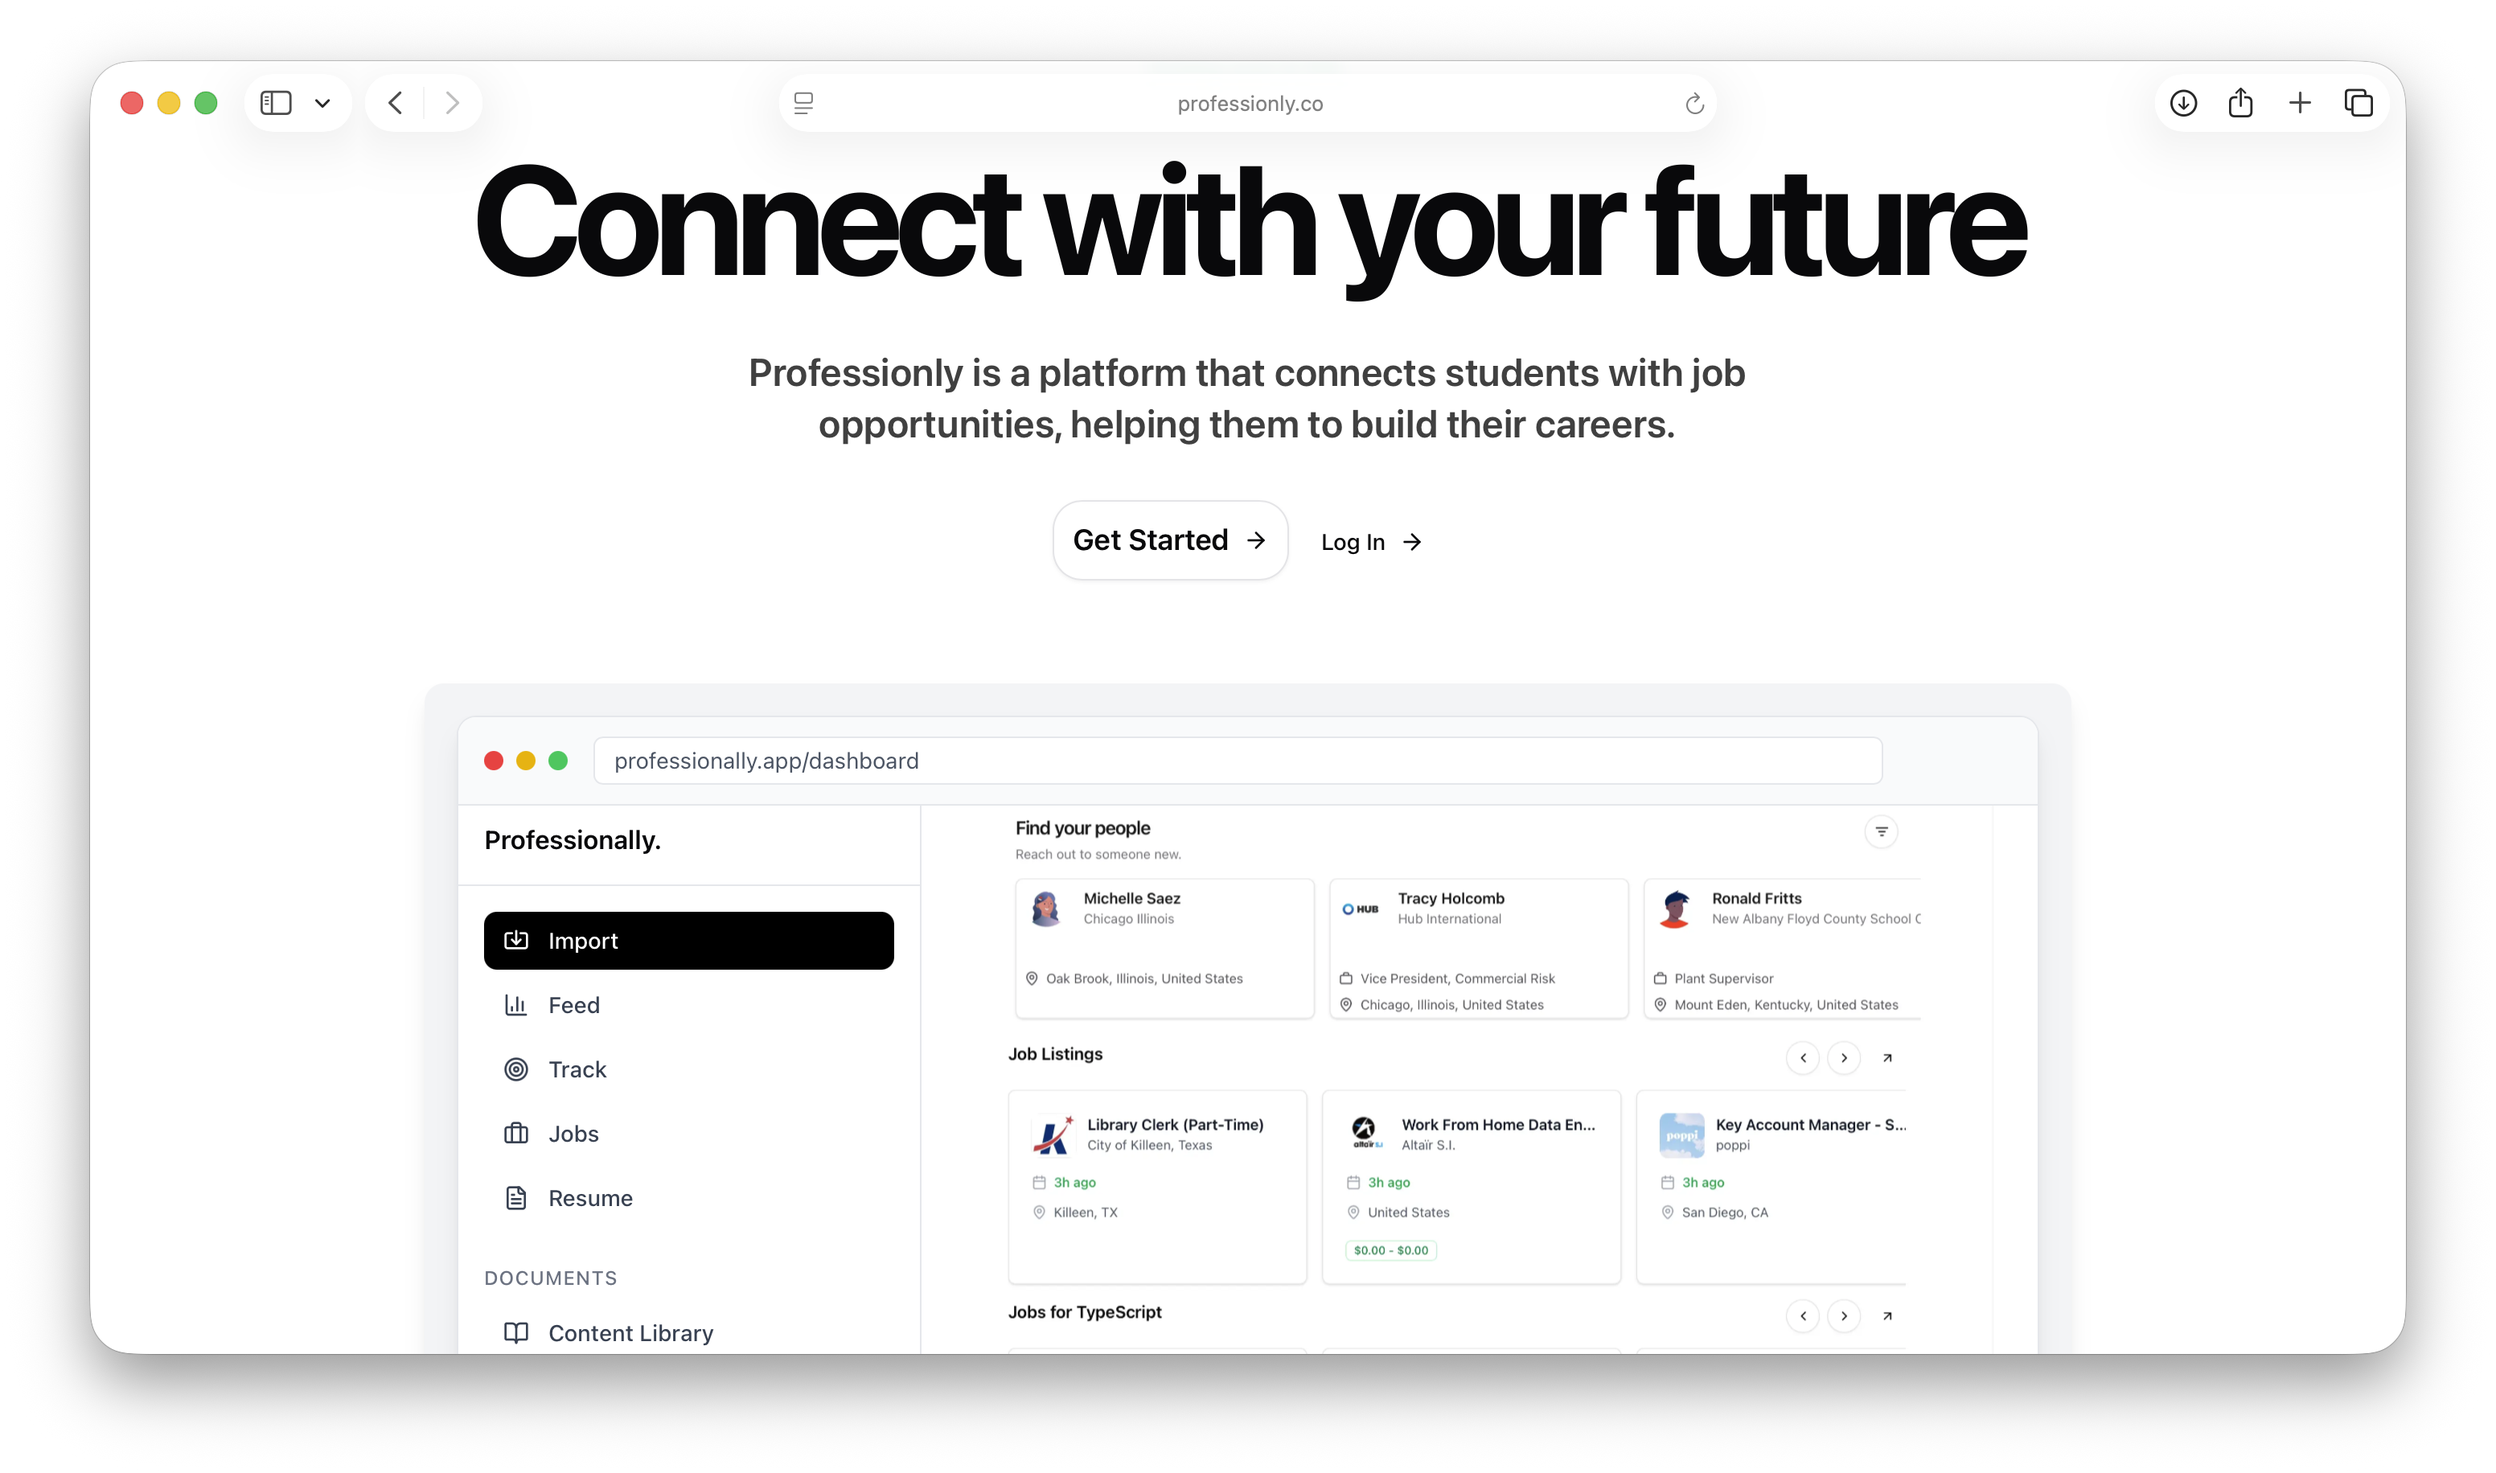
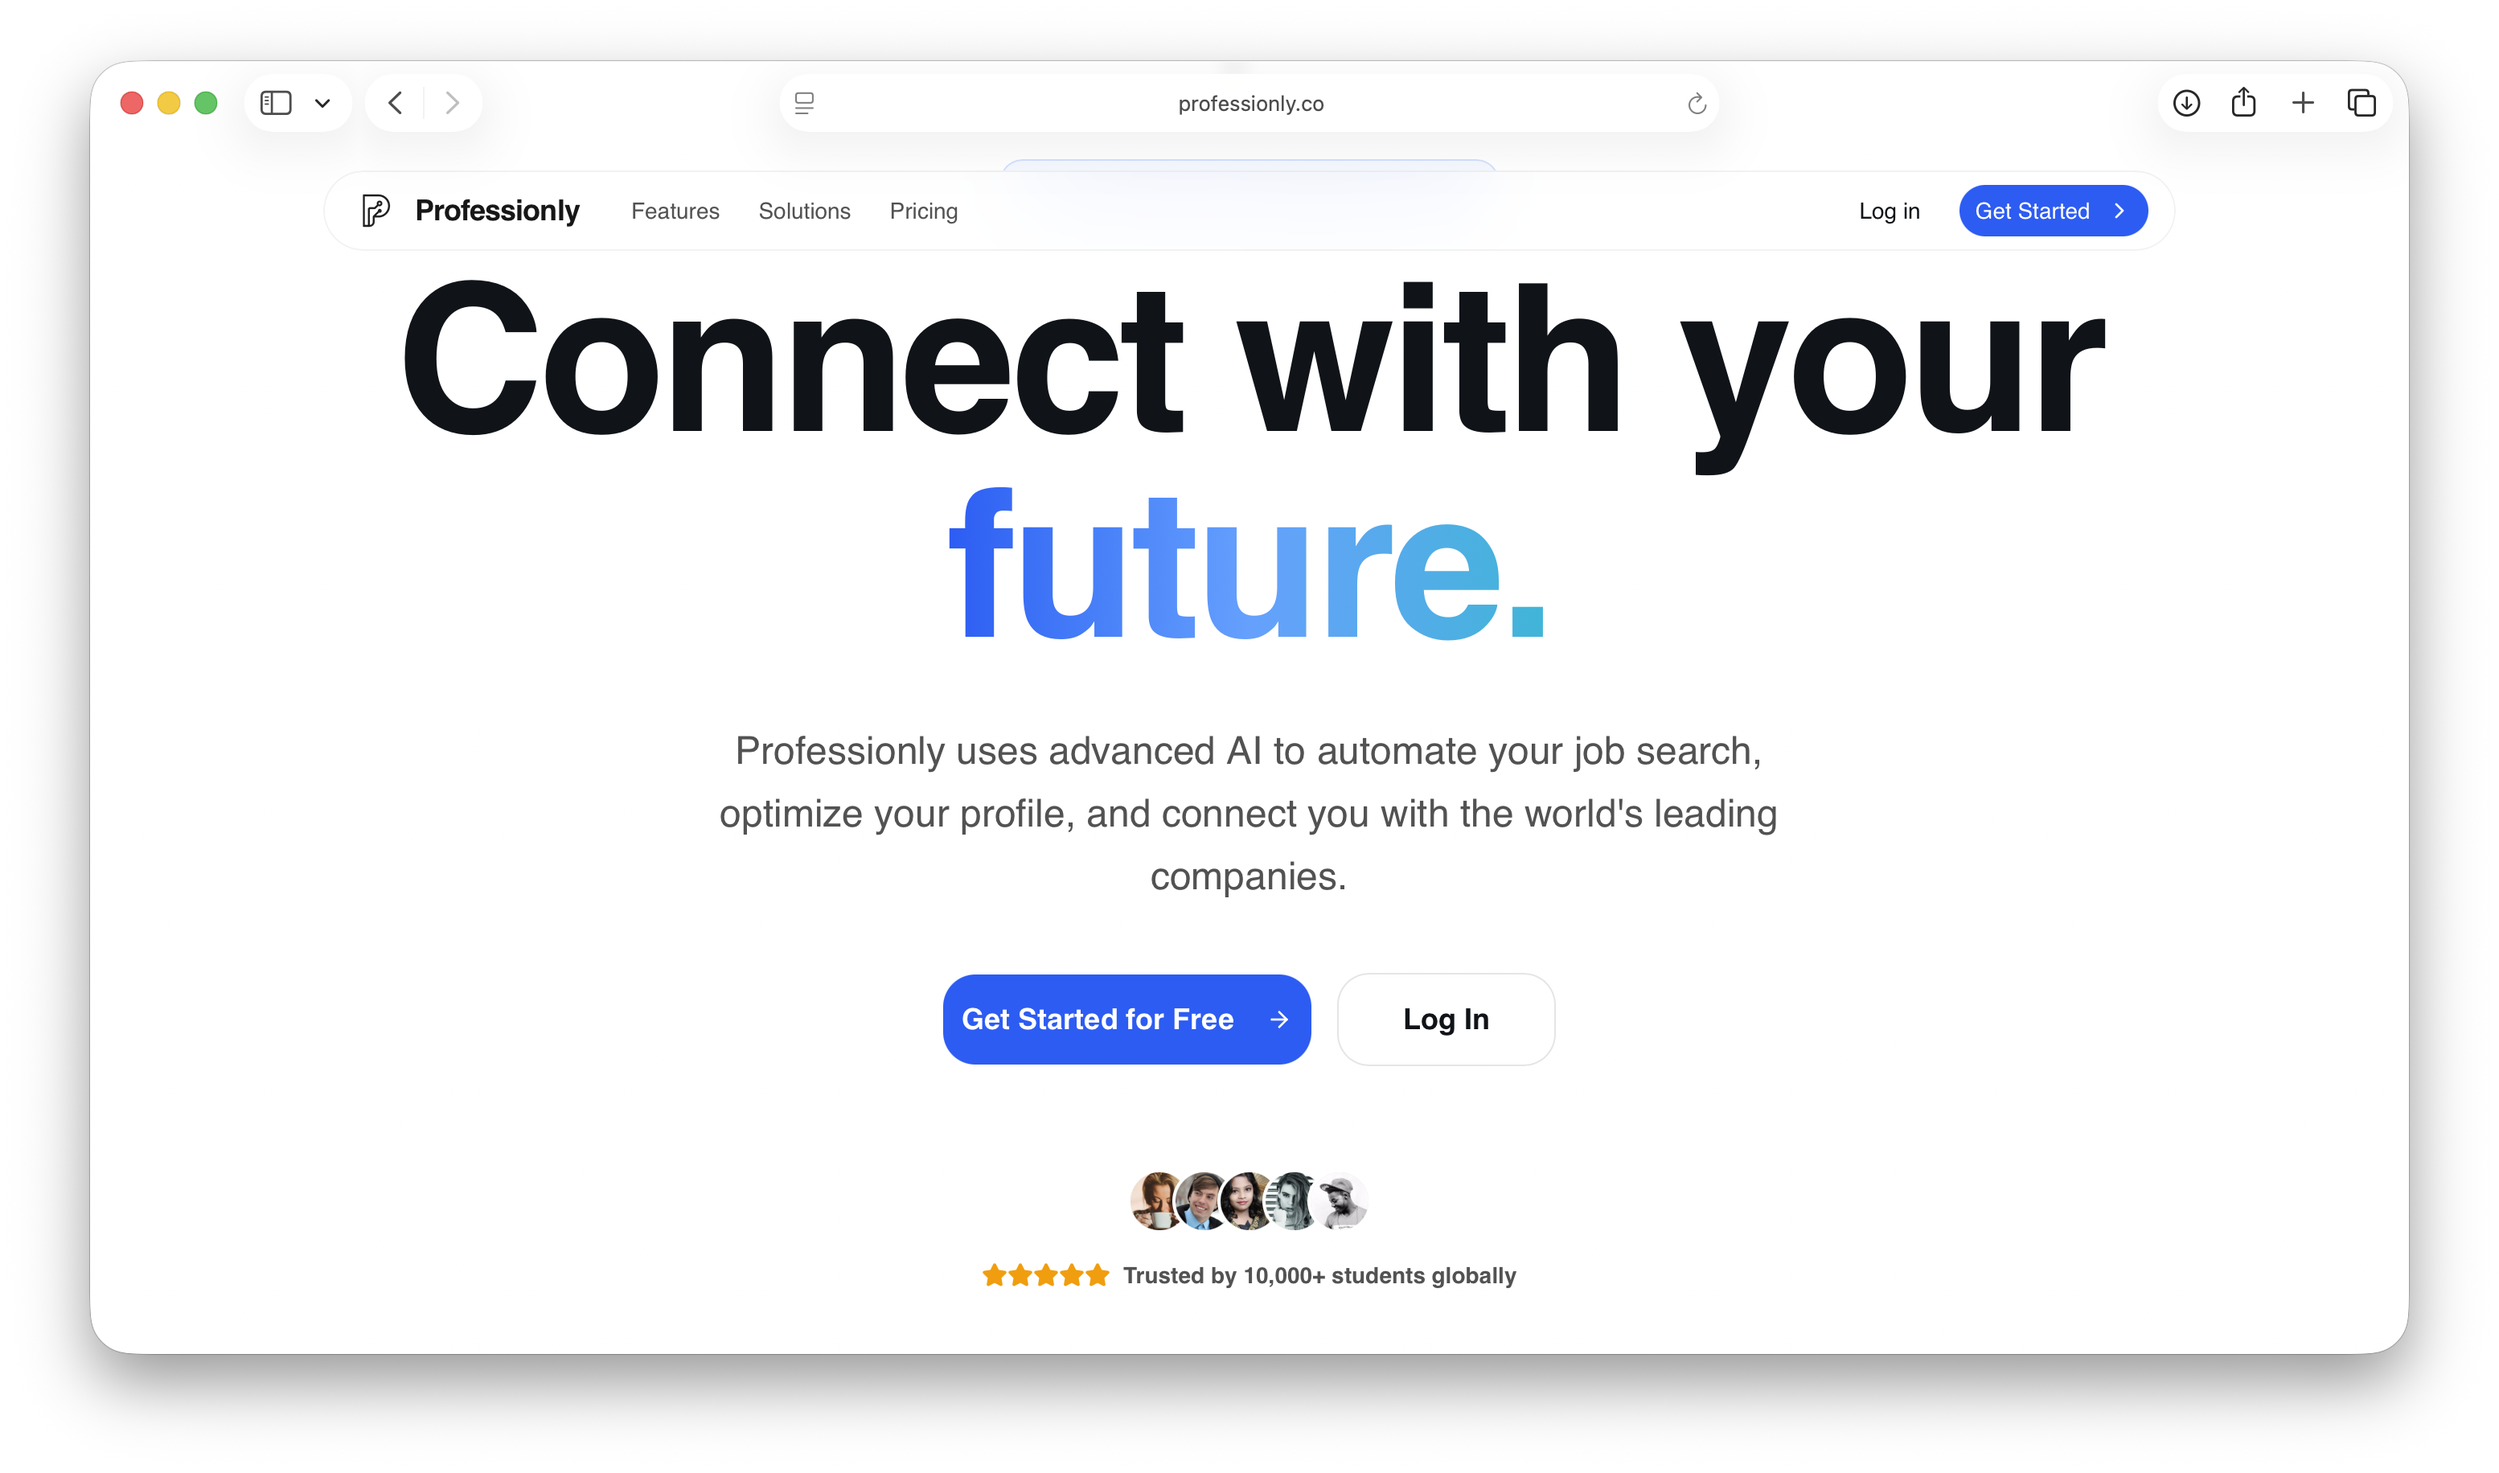
Updates

diff --git a/src/data/resume.tsx b/src/data/resume.tsx
@@ -183,20 +183,20 @@ export const DATA = {
       image: "/vashon-build/img.png",
       video: "",
     },
-    // {
-    //   title: "ZestTV",
-    //   href: "https://www.zesttv.live",
-    //   dates: "2025",
-    //   active: true,
-    //   description:
-    //     "Scalable movie and TV streaming platform with live sports, trailers, and reviews. Emphasized performance, media playback reliability, and usability.",
-    //   technologies: ["Next.js", "TypeScript", "Tailwind CSS"],
-    //   links: [
-    //     { type: "Website", href: "https://www.zesttv.live", icon: <Icons.globe className="size-3" /> },
-    //   ],
-    //   image: "/zesttv.png",
-    //   video: "",
-    // },
+    {
+      title: "ZestTV",
+      href: "https://www.zesttv.live",
+      dates: "2025",
+      active: true,
+      description:
+        "Scalable movie and TV streaming platform with live sports, trailers, and reviews. Emphasized performance, media playback reliability, and usability.",
+      technologies: ["Next.js", "TypeScript", "Tailwind CSS"],
+      links: [
+        { type: "Website", href: "https://www.zesttv.live", icon: <Icons.globe className="size-3" /> },
+      ],
+      image: "/zesstv.png",
+      video: "",
+    },
     {
       title: "Lume Tide Swim",
       href: "https://www.lumetideswim.com",

diff --git a/src/app/page.tsx b/src/app/page.tsx
@@ -30,12 +30,7 @@ export default function Page() {
                 text={DATA.description}
               />
             </div>
-            <BlurFade delay={BLUR_FADE_DELAY}>
-              <Avatar className="size-28 border">
-                <AvatarImage alt={DATA.name} src={DATA.avatarUrl} />
-                <AvatarFallback>{DATA.initials}</AvatarFallback>
-              </Avatar>
-            </BlurFade>
+           
           </div>
         </div>
       </section>
